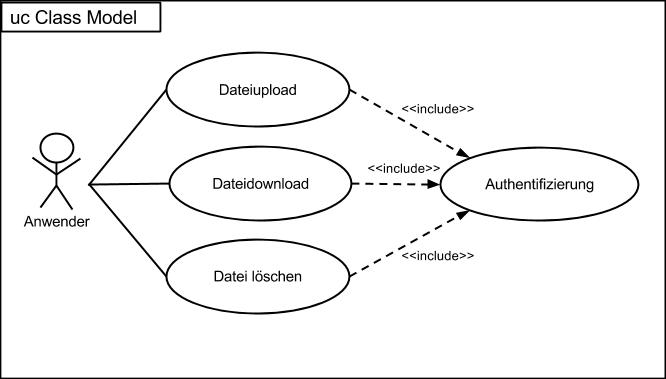
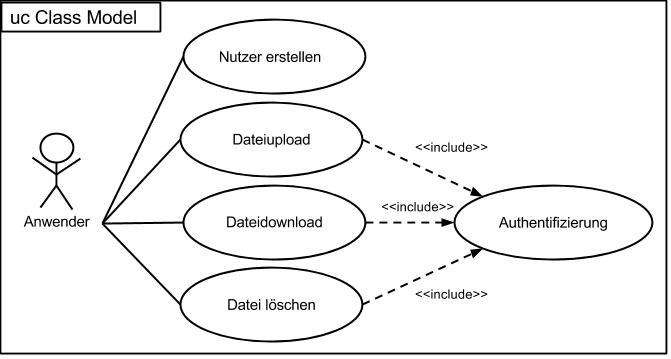
Added CreateAccount to UseCase.

diff --git a/doc/LaTeX/IS_Projekt.tex b/doc/LaTeX/IS_Projekt.tex
@@ -363,7 +363,7 @@ Eclipse ist eine Open Source Entwicklungsumgebung zur gestützten Entwicklung vo
 \textbf{git} ist eine Software unter der OpenSource-Lizenz GNU GPLv2, welche zur verteilten Versionsverwaltung von Dateien eingesetzt wird. Seinen Ursprung fand git in der Verwaltung von Quellcode zur Entwicklung des Linux-Kernels. In diesem Projekt fand Version 2.1.2, unter Einsatz von Atlassian SourceTree als Interface, Verwendung. Dies machte eine gleichzeitige, standortunabhängige Entwicklung und Synchronisierung von Änderungen des Prototyps möglich.\\
 \cite{31}
 
-\subsubsection{Kryptographische Verfahren}\label{KryptV}
+\subsubsection{Kryptographische Verfahren}
 \textbf{AES}\\
 AES (Advanced Encryption Standard) ist ein Kryptosystem, welches im Zuge einer 1997 bekannt gegebenen Ausschreibung des US-Amerikanischen Handelsministeriums Standardisiert wurde. Es hat die mittlerweile als unsicher geltenden DES bzw. 3DES Kryptosysteme abgelöst, gilt heute als Standard der symmetrischen Verschlüsselung und als für viele Jahre sicher. Es gibt ihn in den Varianten AES-128, AES-192 und AES-256, wobei die Zahlen sich auf die jeweils verwendete Schlüssellänge in Bit beziehen. Der verwendete Algorithmus ist der Rijndael von Vincent Rijmen und Joan Daemen. Unter anderem wird er von der NASA und der US-Amerikanischen Regierung verwendet und ist Teil der Standards WPA2, SSH, IPSec, SSL und vielen mehr. Außerdem ist er in jedem größeren Betriebssystem an der einen oder anderen Stelle implementiert. Diese sehr hohe Verbreitung ist vor allem auf seine Einfachheit, der Möglichkeit ihn in Hardware zu implementieren, der mathematischen Eleganz, dem geringen Rechenaufwand und nicht zuletzt dem offenen Ausschreibungsverfahren geschuldet. Grade die Besonderheit, dass dieser Standard der US-Amerikaner offen liegt, von jedem selbst implementiert werden kann, nicht übernommen werden muss und in einem äußerst transparenten Verfahren ausgeschrieben und ausgewählt wurde, wird bis heute gelobt und ist Hauptgrund für das in AES gesetzte Vertrauen. Grundsätzlich ist AES eine symmetrische Blockchiffre. Es arbeitet also bei Ver- und Entschlüsselung mit den selben Schlüsseln. Außerdem werden die Nutzdaten in 16 Byte Blöcke geteilt, welche getrennt verschlüsselt werden. Die Blockgröße ist im Gegensatz zur Schlüssellänge nicht variierbar. Der Algorithmus sieht die Möglichkeit zwar vor, sie wurde jedoch nicht im AES standardisiert.
 \\\textbf{Funktionsweise}\\ 
@@ -419,17 +419,45 @@ Der Software zugrunde liegt eine Architektur, die an das Model-View-Control Patt
 $\;$\\
 \begin{minipage}{\linewidth}
 	\centering
-	\includegraphics[width=0.7\linewidth]{UseCase.jpg}
+	\includegraphics[width=0.8\linewidth]{UseCase.jpg}
 	 \captionof{figure}{\small Anwendungsfalldiagramm}
 \end{minipage}
 \vspace{1em}
 
-\textbf{AF-001 Authentifizierung:}
+\textbf{AF-001 Nutzer erstellen:}
 \begin{table}[!h]
 	\centering
 	\begin{tabular}{|l|l|}
 		\hline
 		Nummer & AF-001\\
+		\hline
+		Name & Nutzer erstellen\\
+		\hline
+		Akteure & Anwender\\
+		\hline
+		Auslöser & Anwender möchte sich einen Benutzer anlegen\\
+		\hline
+		Vorbedingung & Programm zeigte den Login-Dialog, Anwender hat \\ &  Create ausgewählt\\
+		\hline
+		Nachbedingung/Ziel & Ein neuer Benutzer wurde angelegt \\
+		\hline
+		Nachbedingung im Sonderfall & Es wurde kein Benutzer erstellt \\ & Erneute Aufforderung zur Dateneingabe\\
+		\hline
+		Normalablauf & 1. Anwender strartet Programm \\ & 2. Anwender wählt Create im Login-Fenster\\ & 3. Anwender gibt Benutzername ein \\ & 4. Anwender gibt Passwort ein \\ & 5. Anwender bestätigt das Passwort durch zweite\\ &Eingabe\\& 6. Benutzer wurde angelegt\\& 7. Login-Fenster wird angezeigt \\
+		\hline
+		Sonderfälle & 3a. Anwender gibt nicht erlaubten Benutzernamen ein \\ & 4a. Anwender gibt nicht erlaubtes Passwort ein \\& 5a. Anwender gibt nicht das identische Passwort ein\\& 6a. Benutzer konnte nicht angelegt werden \\& 7a. Create-Fenster wird erneut angezeigt\\
+		\hline
+	\end{tabular}
+	\caption{AF-001 Nutzer erstellen}
+	\label{tab:AF-001 Nutzer erstellen}
+\end{table}
+
+\textbf{AF-002 Authentifizierung:}
+\begin{table}[!h]
+	\centering
+	\begin{tabular}{|l|l|}
+		\hline
+		Nummer & AF-002\\
 		\hline
 		Name & Authentifizierung\\
 		\hline
@@ -443,22 +471,22 @@ $\;$\\
 		\hline
 		Nachbedingung im Sonderfall & Zugriff verweigtert\\ & Erneute Aufforderung zur Anmeldung\\
 		\hline
-		Normalablauf & 1. Anwender strartet Programm \\ & 2. Anwender gibt Benutzername ein \\ & 3. Anwender gibt Passwort ein \\ & 4. Zugangsdaten werden überprüft \\ & 5. 				Dateiübersicht wird angezeigt \\
+		Normalablauf & 1. Anwender strartet Programm \\ & 2. Anwender gibt Benutzername ein \\ & 3. Anwender gibt Passwort ein \\ & 4. Anwender gibt Bucket an \\ &5. Zugangsdaten werden überprüft \\ & 6. Dateiübersicht wird angezeigt \\
 		\hline
-		Sonderfälle & 2a. Anwender gibt falschen oder keinen \\ & Benutzernamen ein \\ & 3a. Anwender gibt falsches oder kein Passwort ein \\ & 4a. Erneutes Laden der Loginmaske\\
+		Sonderfälle & 2a. Anwender gibt falschen Benutzernamen ein \\ & 3a. Anwender gibt falsches Passwort ein \\& 4a. Anwender gibt nicht gestatteten Bucketnamen an\\ & 5a. Erneutes Laden der Loginmaske\\
 		\hline
 	\end{tabular}
-	\caption{AF-001 Authentifizierung}
-	\label{tab:AF-001 Authentifizierung}
+	\caption{AF-002 Authentifizierung}
+	\label{tab:AF-002 Authentifizierung}
 \end{table}
 \pagebreak
 
-\textbf{AF-002 Dateiupload:}
+\textbf{AF-003 Dateiupload:}
 \begin{table}[!h]
 	\centering
 	\begin{tabular}{|l|l|}
 		\hline
-		Nummer & AF-002\\
+		Nummer & AF-003\\
 		\hline
 		Name & Dateiupload\\
 		\hline
@@ -472,22 +500,22 @@ $\;$\\
 		\hline
 		Nachbedingung im Sonderfall & Datei kann nicht abgelegt werden\\
 		\hline
-		Normalablauf & 1. Anwender wählt das Menü ''File'' aus \\ & 2. Anwender wählt im Untermenü ''Select'' \\ & 3. Anwender bewegt sich durch das eigene Dateisystem \\ & zum 				Speicherpfad der hochzuladenden Datei \\ & 4. Anwender initialisiert den Dateiupload durch \\ &  Doppelklick der linken Maustaste oder Auswählen \\ & der Datei und Bestätigung                  mit ''Öffnen'' \\  & 5. Datei wird verschlüsselt \\ & 6. Datei wird hochgeladen \\
+		Normalablauf & 1. Anwender wählt das Menü ''File'' aus \\ & 2. Anwender wählt im Untermenü ''Select'' \\ & 3. Anwender bewegt sich durch das eigene  Datei- \\ & system zum Speicherpfad der hochzuladenden Datei \\ & 4. Anwender initialisiert den Dateiupload durch \\ &  Auswählen der Datei und Bestätigung mit ''Öffnen'' \\  & 5. Datei wird verschlüsselt \\ & 6. Datei wird hochgeladen \\
 		\hline
-		Sonderfälle & 5a. Datei wird nicht verschlüsselt \\ & 6a. Datei kann nicht hochgeladen werden\\
+		Sonderfälle & 3a. Dateisystem wird nicht unterstützt \\& 5a. Datei wird nicht verschlüsselt \\ & 6a. Datei kann nicht hochgeladen werden\\
 		\hline
 	\end{tabular}
-	\caption{AF-002 Dateiupload}
-	\label{tab:AF-002 Dateiupload}
+	\caption{AF-003 Dateiupload}
+	\label{tab:AF-003 Dateiupload}
 \end{table}
 \pagebreak
 
-\textbf{AF-003 Dateidownload:}
+\textbf{AF-004 Dateidownload:}
 \begin{table}[!h]
 	\centering
 	\begin{tabular}{|l|l|}
 		\hline
-		Nummer & AF-003\\
+		Nummer & AF-004\\
 		\hline
 		Name & Dateidownload\\
 		\hline
@@ -501,21 +529,21 @@ $\;$\\
 		\hline
 		Nachbedingung im Sonderfall & Datei kann nicht heruntergeladen werden \\ & Datei wird nicht entschlüsselt\\
 		\hline
-		Normalablauf & 1. Anwender wählt in der Dateiübersicht die \\ & entsprechende Datei aus \\ & 2. Anwender wählt das Menü ''File'' aus \\ & 3. Anwender wählt im Untermenü ''Download'' \\ & 4. Anwender bewegt sich durch das eigene Dateisystem \\ & zum Speicherpfad der zu herunterladenden Datei \\ & 5. Anwender initialisiert durch ''Speichern'' \\ & den Dateidownload \\  & 6. Datei wird heruntergeladen \\ & 7. Datei wird entschlüsselt \\
+		Normalablauf & 1. Anwender wählt in der Dateiübersicht mit linkem \\&Mausklick den Eintrag der entsprechenden Datei aus \\ & 2. Anwender öffnet das Kontextmenü mit rechtem\\& Mausklick \\ & 3. Anwender wählt im Kontextmenü ''Download'' \\  & 4. Datei wird heruntergeladen \\ & 5. Datei wird entschlüsselt \\
 		\hline
-		Sonderfälle & 6a. Datei kann nicht heruntergeladen werden \\ & 7a. Datei wird nicht entschlüsselt\\
+		Sonderfälle & 1a. Kein Eintrag vorhanden\\& 1b. Kein Eintrag ausgewählt\\ & 3a. Kontextmenü öffnet sich nicht \\& 4a. Datei kann nicht heruntergeladen werden \\ & 5a. Datei wird nicht entschlüsselt\\
 		\hline
 	\end{tabular}
-	\caption{AF-003 Dateidownload}
-	\label{tab:AF-003 Dateidownload}
+	\caption{AF-004 Dateidownload}
+	\label{tab:AF-004 Dateidownload}
 \end{table}
 
-\textbf{AF-004 Datei l\"oschen:}
+\textbf{AF-005 Datei l\"oschen:}
 \begin{table}[!h]
 	\centering
 	\begin{tabular}{|l|l|}
 		\hline
-		Nummer & AF-004\\
+		Nummer & AF-005\\
 		\hline
 		Name & Datei löschen\\
 		\hline
@@ -529,13 +557,13 @@ $\;$\\
 		\hline
 		Nachbedingung im Sonderfall & Datei kann nicht gelöscht werden \\
 		\hline
-		Normalablauf & X\\
+		Normalablauf & 1. Anwender wählt in der Dateiübersicht mit linkem \\&Mausklick den Eintrag der entsprechenden Datei aus \\ & 2. Anwender öffnet das Kontextmenü mit rechtem\\& Mausklick \\ & 3. Anwender wählt im Kontextmenü ''Delete from \\&cloud'' \\  & 4. Datei wird aus der Cloud gelöscht \\ & 5. Dateieintrag in der Übersicht wird entfernt \\& Schlüssel wird entfernt \\
 		\hline
-		Sonderfälle & X \\
+		Sonderfälle & 1a. Kein Eintrag vorhanden\\& 1b. Kein Eintrag ausgewählt\\ & 3a. Kontextmenü öffnet sich nicht \\& 4a. Datei kann nicht aus der Cloud gelöscht werden \\ & 5a. Dateieintrag in der Übersicht wird nicht entfernt\\& Schlüssel wird nicht entfernt\\
 		\hline
 	\end{tabular}
-	\caption{AF-004 Datei löschen}
-	\label{tab:AF-004 Datei loeschen}
+	\caption{AF-005 Datei löschen}
+	\label{tab:AF-005 Datei loeschen}
 \end{table}
 \pagebreak
 
@@ -554,17 +582,7 @@ GUI (engl. Graphical User Interface) ist eine grafische Benutzeroberfläche, die
 \end{compactitem}
 
 \subsection{Kryptosystem}
-Die Verschlüsselung und das Accountmanagement basieren zurzeit ausschließlich auf den Algorithmen AES128 im CTR Modus und SHA256. Eine asymmetrische Verschlüsselung wurde in Betracht gezogen, hat aber unter der Annahme, dass der Client auf dem die Applikation läuft, als sichere Umgebung gilt. In einer späteren Weiterentwicklung ist es aber durchaus sinnvoll dies in betracht zu ziehen. Vor allem dann, wenn ein Server das Dateisystem bzw. dessen Synchronität verwalten soll, oder mehrere kaskadierte Verschlüsselungsebenen geschaffen werden sollen, um eine erweiterte Rechteverwaltung zu schaffen. Die Beschreibung der Sicherungsverfahren wird im Folgenden in der Reihenfolge, in der sie von einem Benutzer ausgelöst werden, beschrieben.
-\\\\\textbf{Account anlegen}\\
-Wird die Applikation zum ersten mal gestartet, stellt sie also fest, dass bisher keine Benutzer im System registriert sind, schafft sie im Home-Verzeichnis des Benutzers eine eigene Ordnerstruktur, um die anfallenden Informationen zu verwalten und nach dem schlißen vorzuhalten. Nachdem der Benutzer im CreateAccountWindow seine gewünschten Nutzerdaten eingetragen hat, wird automatisch ein zufälliger Wert von 64 Byte berechnet, der sog. "Salt". Danach wird der Benutzername im Klartext in die Datei HOME/SecuCloud/settings.cfg eingetragen, gefolgt von einem Doppelpunkt (":") als Separator. Danach berechnet das Programm einen SHA256 Hashwert über ein Byte array bestehend aus dem Salt und dem Passwort. Dieser Hash, sowie der Salt werden hinter dem Doppelpunkt abgelegt. Weitere eventuell angelegte Benutzer werden auf die selbe Weise an die Datei angehängt, die Applikation erkennt anhand des Separators und der Kenntnis über Länge von Hash und Salt, wo die Daten des einen Nutzers enden und die des nächsten beginnen.
-\\\\\textbf{Login}\\
-Um sich in seinen Account einzuloggen, muss ein Benutzer seinen Nutzernamen und sein Passwort in die im LoginWindow vorgegebenen Zellen eintragen. Drückt er auf den OK Button, erstellt die Applikation eine Byte Array aus dem Passwort und dem in settings.cfg hinterlegten salt. Dies wird gehasht und das Ergebnis mit dem in settings.cfg eingetragenen verglichen. Stimmen die beiden überein, sind die Nutzerdaten valide und die Applikation wechselt in das MainWindow. Der Vorteil bei der Verwendung eines Salt ist in \ref{KryptV} näher erläutert.
-\\\\\textbf{Dateien ablegen}\\
-Wählt der Benutzer eine Datei über das MainWindow aus, um diese in der Cloud sicher zu speichern, beginnt die Applikation zunächst damit einen zufälligen Schlüssel von 16 Byte Länge (AES Key, 128 Bit) und einen Initialisierungsvektor (Nonce) für den CTR Modus (ebenfalls 16 Byte) zu berechnen und in einer Instanz der Klasse InformationContainer zusammen mit dem Dateinamen und weiteren Informationen, zu speichern. Danach wird die Datei selbst mit den generierten Werten verschlüsselt, der verwendete Initialisierungsvektor angehängt und sie anschließend in der Cloud abgelegt.
-\\\\\textbf{Programm schließen}\\
-Wird die CLOSE Schaltfläche des MainWindow betätigt oder das rote X in der Ecke des Programmfensters, werden zunächst alle laufenden Verschlüsselungs- und Uploadprozesse beendet. Danach werden alle gespeicherten InformationContainer in Bytefolgen umgewandelt und aneinander gehängt. Dieses Byte Array wird dann mittels des Benutzerpasswortes und einem weiteren zufällig generierten Initialisierungsvektor AES CTR verschlüsselt. Danach wird der Initialisierungsvektor angehängt und die Daten in die Datei HOME/SecuCloud/\textless Benutzername\textgreater/data/state.cfg gespeichert. Sollte das Benutzerpasswort nicht die richtige Länge haben (genau 16 Byte, AES Key Länge) wird es bei 16 Byte abgeschnitten, bzw. auf 16 Byte expandiert. Das bedeutet aktuell, es wird sooft hinter einander gehängt, bis 16 Byte übertroffen werden und eventuel überflüssige Zeichen wieder abgeschnitten. Aus diesem Grund kohnt es sich ein ausreichend langes Passwort zu wählen.
-\\\\\textbf{Programmstart mit vorhandener state.cfg}\\
-Wird die Applikation gestartet und ein Benutzer meldet sich mit validen Daten an, wird geprüft, ob bereits eine state.cfg für diesen Benutzer existiert, also ob bereits Dateien abgelegt und ensprechen Informationen zu diesen abgelegt wurden. Ist dies der Fall, expandiert die Applikation das Benutzerpasswort und entschlüsselt die state.cfg. Hier wird auch klar warum die state.cfg verschlüsselt sein muss: Es ist möglich, dass jemand die setttings.cfg derart manipuliert, dass jemand sich mit einem falschen Passwort einloggen kann. Dann ist es dieser Person aber nach wie vor nicht möglich die Dateien des eigentlichen Benutzers zu entschlüsseln, da er das echte Passwort nicht besitzt. Auch ist es möglich in Zukunft die state.cfg selbst auch in der Cloud abzulegen. Dann wäre es möglich von überall aus das Programm zu verwenden, ohne die Informationen im Nutzerverzeichnis zu benötigen.
+Erläuterung des eingesetzten Kryptosystems und Untersuchung dessen Sicherheit
 
 \subsection{GUI und Funktionalitäten}
 Nachfolgend wird die Oberfläche sowie die Funktionalität des Prototyps beschrieben.
